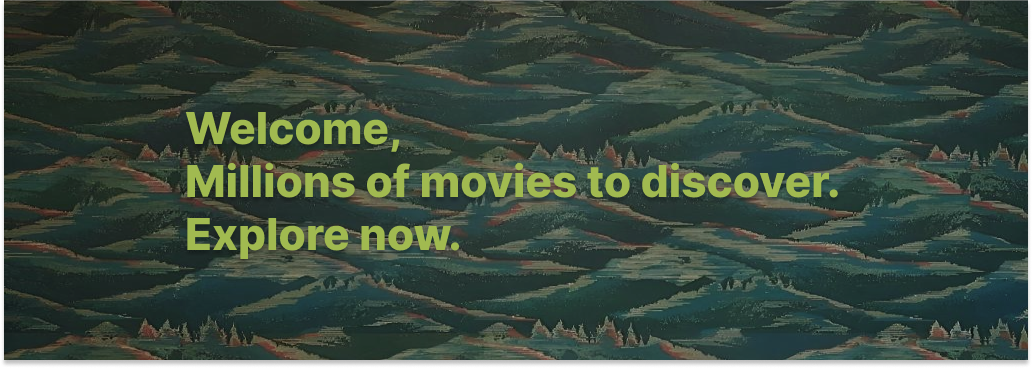
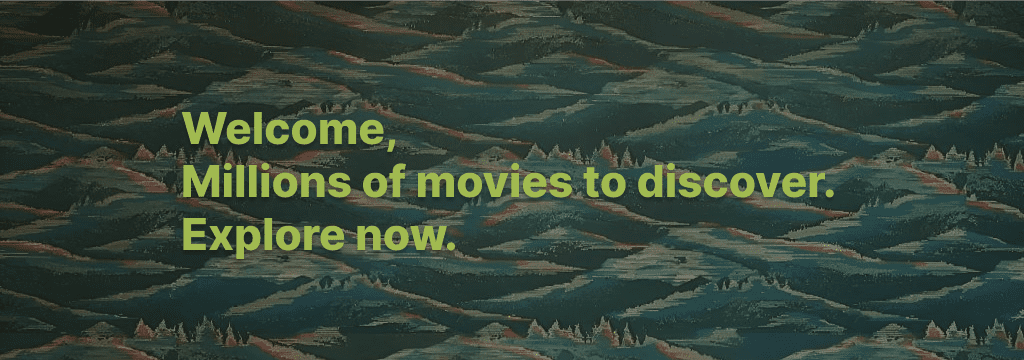
Feat: Add Skeleton UI in the carousel

diff --git a/src/pages/SearchPage.tsx b/src/pages/SearchPage.tsx
@@ -9,13 +9,14 @@ import MovieItemStyle from '../components/style/MovieItemStyle'
 import ResultCountStyle from '../components/style/ResultCountStyle'
 import { ITotalResults } from '../types/hooksTypes'
 import Pagination from '../components/layout/Pagination'
+import Loading from '../components/common/Loading'
 
 const SearchPage = () => {
   const [params] = useSearchParams()
   const navigate = useNavigate()
+  const [isLoading, setIsLoading] = useState(false)
   const [movieList, setMovieList] = useState<IMovieInfo[]>([])
   const [page, setPage] = useState<number>(1)
-
   const [totalResults, setTotalResults] = useState<ITotalResults>({
     totalCount: 0,
     totalPages: 0
@@ -23,13 +24,19 @@ const SearchPage = () => {
 
   useEffect(() => {
     const getData = async () => {
-      const res = await getSearchingMovieList(params.get('q') as string, page)
-      console.log(res)
-      setMovieList(res.results)
-      setTotalResults({
-        totalCount: res.total_results,
-        totalPages: res.total_pages
-      })
+      try {
+        setIsLoading(true)
+        const res = await getSearchingMovieList(params.get('q') as string, page)
+        setMovieList(res.results)
+        setTotalResults({
+          totalCount: res.total_results,
+          totalPages: res.total_pages
+        })
+      } catch (err) {
+        console.log(err)
+      } finally {
+        setIsLoading(false)
+      }
     }
     getData()
   }, [params, page])
@@ -37,17 +44,21 @@ const SearchPage = () => {
   return (
     <SearchPageContainer>
       <ResultCountStyle>
-        검색결과 {totalResults.totalCount}건 ({totalResults.totalPages}페이지)
+        검색결과 {isLoading ? '?' : totalResults.totalCount}건 ({isLoading ? '?' : totalResults.totalPages}페이지)
       </ResultCountStyle>
-      <MovieListStyle>
-        {!movieList.length && <NoResult>일치하는 검색 결과가 없습니다.</NoResult>}
-        {movieList?.map((movie) => (
-          <MovieItemStyle key={movie.id}>
-            <MovieItem movieInfo={movie} onClick={() => navigate(`/detail/${movie.id}`, { state: movie.id })} />
-          </MovieItemStyle>
-        ))}
-        <Pagination totalPages={totalResults.totalPages} page={page} setPage={setPage} />
-      </MovieListStyle>
+      {isLoading ? (
+        <Loading />
+      ) : (
+        <MovieListStyle>
+          {!movieList.length && <NoResult>일치하는 검색 결과가 없습니다.</NoResult>}
+          {movieList?.map((movie) => (
+            <MovieItemStyle key={movie.id}>
+              <MovieItem movieInfo={movie} onClick={() => navigate(`/detail/${movie.id}`, { state: movie.id })} />
+            </MovieItemStyle>
+          ))}
+          <Pagination totalPages={totalResults.totalPages} page={page} setPage={setPage} />
+        </MovieListStyle>
+      )}
     </SearchPageContainer>
   )
 }

diff --git a/src/components/layout/Pagination.tsx b/src/components/layout/Pagination.tsx
@@ -39,23 +39,23 @@ const Pagination = ({ totalPages, page, setPage }: IPagination) => {
 
   return (
     <PaginationContainer>
-      <button onClick={() => setPage(1)} disabled={page === 1}>
+      <button onClick={() => setPage(1)} disabled={page === 1} aria-label="첫 페이지로">
         <DoubleLeftIcon />
       </button>
-      <button onClick={() => setPage(page - 1)} disabled={page === 1}>
+      <button onClick={() => setPage(page - 1)} disabled={page === 1} aria-label="이전 페이지로">
         <LeftIcon />
       </button>
       <PageButtonContainer role="navigation" aria-label="pagination">
         {currentPageArray?.map((i) => (
-          <PageButton key={i + 1} onClick={() => setPage(i + 1)} aria-current={page === i + 1 ? 'page' : undefined}>
-            {i + 1}
-          </PageButton>
+          <li key={i + 1} onClick={() => setPage(i + 1)}>
+            <PageButton aria-current={page === i + 1 ? 'page' : undefined}>{i + 1}</PageButton>
+          </li>
         ))}
       </PageButtonContainer>
-      <button onClick={() => setPage(page + 1)} disabled={page === totalPages}>
+      <button onClick={() => setPage(page + 1)} disabled={page === totalPages} aria-label="다음 페이지로">
         <RightIcon />
       </button>
-      <button onClick={() => setPage(totalPages)} disabled={page === totalPages}>
+      <button onClick={() => setPage(totalPages)} disabled={page === totalPages} aria-label="마지막 페이지로">
         <DoubleRightIcon />
       </button>
     </PaginationContainer>
@@ -87,7 +87,7 @@ const PaginationContainer = styled.div`
     }
   }
 `
-const PageButtonContainer = styled.div`
+const PageButtonContainer = styled.ul`
   position: relative;
   display: flex;
   gap: 20px;

diff --git a/src/components/carousel/RecommendList.tsx b/src/components/carousel/RecommendList.tsx
@@ -1,4 +1,3 @@
-import React from 'react'
 import styled from 'styled-components'
 import Slider from 'react-slick'
 import 'slick-carousel/slick/slick.css'
@@ -7,28 +6,35 @@ import MovieItem from '../common/MovieItem'
 import { carouselSettings } from './CarouselSettings'
 import { useNavigate } from 'react-router-dom'
 import { IMovieInfo } from '../../types/types'
+import SkeletonCarousel from './SkeletonCarousel'
 // const MovieItem = React.lazy(() => import('./MovieItem'))
 
 interface IRecommendList {
   title: string
   movieList: IMovieInfo[]
+  isLoading: boolean
 }
 
-const RecommendList = ({ title, movieList }: IRecommendList) => {
+const RecommendList = ({ title, movieList, isLoading }: IRecommendList) => {
   const navigate = useNavigate()
+
   return (
     <RecommendSection>
       <div className="list-slider">
         <h3>{title}</h3>
-        <Slider {...carouselSettings}>
-          {movieList.map((movie, index) => (
-            <MovieItem
-              movieInfo={movie}
-              onClick={() => navigate(`/detail/${movie.id}`, { state: movie.id })}
-              key={movie.id}
-            />
-          ))}
-        </Slider>
+        {isLoading ? (
+          <SkeletonCarousel />
+        ) : (
+          <Slider {...carouselSettings}>
+            {movieList.map((movie, index) => (
+              <MovieItem
+                movieInfo={movie}
+                onClick={() => navigate(`/detail/${movie.id}`, { state: movie.id })}
+                key={movie.id}
+              />
+            ))}
+          </Slider>
+        )}
       </div>
     </RecommendSection>
   )

diff --git a/src/pages/MainPage.tsx b/src/pages/MainPage.tsx
@@ -13,6 +13,7 @@ const MainPage = () => {
   const [topRatedMovies, setTopRatedMovies] = useState(RECOMMEND_LIST_DEFAULT)
   const [sfMovies, setSfMovies] = useState(RECOMMEND_LIST_DEFAULT)
   const { cachedRecommendMovie, setCachedRecommendMovie } = useRecommendMovieStore()
+  const [isLoading, setIsLoading] = useState(false)
 
   const movieRecommendList = [
     { title: recommendListTitle.trending, movieList: trendingMovies },
@@ -41,9 +42,13 @@ const MainPage = () => {
         setCachedRecommendMovie(title, requestRes)
       }
     }
+    setIsLoading(true)
     getRecommendLists(recommendListTitle.trending, getTrendingMovieList, setTrendingMovies)
     getRecommendLists(recommendListTitle.topRated, getTopRatedMovieList, setTopRatedMovies)
     getRecommendLists(recommendListTitle.sf, getGenresMovieList, setSfMovies, SF_GENRE_ID)
+    setTimeout(() => {
+      setIsLoading(false)
+    }, 2000)
     //eslint-disable-next-line
   }, [])
 
@@ -53,7 +58,7 @@ const MainPage = () => {
         <img src="/banner.webp" alt="banner" />
       </div>
       {movieRecommendList.map((list, index) => (
-        <RecommendList title={list.title} movieList={list.movieList} key={index} />
+        <RecommendList title={list.title} movieList={list.movieList} isLoading={isLoading} key={index} />
       ))}
     </MainContainer>
   )
@@ -69,6 +74,7 @@ const MainContainer = styled.main`
     width: 100%;
     img {
       width: 100%;
+      aspect-ratio: 1/0.352;
       object-fit: cover;
     }
   }

diff --git a/src/api/movieRequest.ts b/src/api/movieRequest.ts
@@ -10,6 +10,9 @@ export const getTrendingMovieList = async () => {
     .then((res) => {
       return res.data.results
     })
+    .catch((err: object) => {
+      return alert(err)
+    })
 }
 
 export const getTopRatedMovieList = async () => {
@@ -32,6 +35,9 @@ export const getSearchingMovieList = async (query: string, page = 1) => {
     })
     .then((res) => {
       return res.data
+    })
+    .catch((err: object) => {
+      return alert(err)
     })
 }
 export const getMovieDetail = async (movieId: string) => {
@@ -78,14 +84,19 @@ export const getGenresMovieList = async (with_genres: number) => {
     .then((res) => {
       return res.data.results
     })
+    .catch((err: object) => {
+      return alert(err)
+    })
 }
 export const getMyWatchList = async (account_id: string, page = 1) => {
-  // accountID 스토리지 저장
   return await axiosInstance
     .get(`account/${account_id}/watchlist/movies`, {
       params: { ...defaultOption, page }
     })
     .then((res) => {
       return res.data
+    })
+    .catch((err: object) => {
+      return alert(err)
     })
 }

diff --git a/src/pages/DetailPage.tsx b/src/pages/DetailPage.tsx
@@ -120,14 +120,14 @@ const DetailPage = () => {
           </DetailSection>
           {similarMovies.length ? (
             <RelatedSection>
-              <RecommendList title={`<${movieDetails.title}> 비슷한 영화`} movieList={similarMovies} />
+              {/* <RecommendList title={`<${movieDetails.title}> 비슷한 영화`} movieList={similarMovies} /> */}
             </RelatedSection>
           ) : (
             <RelatedSection>
-              <RecommendList
+              {/* <RecommendList
                 title={recommendListTitle.trending}
                 movieList={cachedRecommendMovie[recommendListTitle.trending]}
-              />
+              /> */}
             </RelatedSection>
           )}
         </>

diff --git a/src/components/common/SkeletonPoster.tsx b/src/components/common/SkeletonPoster.tsx
@@ -1,0 +1,37 @@
+import React from 'react'
+import styled from 'styled-components'
+
+const SkeletonPoster = () => {
+  return (
+    <SkeletonContainer>
+      <img src="/skeleton_image.webp" alt="로딩중" />
+    </SkeletonContainer>
+  )
+}
+
+const SkeletonContainer = styled.div`
+  position: relative;
+  width: 100%;
+  height: 100%;
+  aspect-ratio: 1/1.3;
+
+  img {
+    position: relative;
+    width: 90%;
+    height: 100%;
+    object-fit: cover;
+    margin: auto;
+    animation: fadeout 2s;
+
+    @keyframes fadeout {
+      from {
+        opacity: 1;
+      }
+      to {
+        opacity: 0;
+      }
+    }
+  }
+`
+
+export default SkeletonPoster

diff --git a/src/pages/MyPage.tsx b/src/pages/MyPage.tsx
@@ -76,9 +76,9 @@ const MyPage = () => {
           <p>좋아하는 영화, 보고싶은 영화를 관심 등록 해 보세요!</p>
           <p>취향에 맞는 영화를 추천받을 수 있어요.</p>
         </NoResults>
-        {movieRecommendList.map((list, index) => (
+        {/* {movieRecommendList.map((list, index) => (
           <RecommendList title={list.title} movieList={list.movieList} key={index} />
-        ))}
+        ))} */}
       </MyPageContainer>
     )
   else

diff --git a/src/components/carousel/SkeletonCarousel.tsx b/src/components/carousel/SkeletonCarousel.tsx
@@ -1,0 +1,17 @@
+import Slider from 'react-slick'
+import { carouselSettings } from './CarouselSettings'
+import SkeletonPoster from '../common/SkeletonPoster'
+
+const SkeletonCarousel = () => {
+  return (
+    <Slider {...carouselSettings}>
+      <SkeletonPoster />
+      <SkeletonPoster />
+      <SkeletonPoster />
+      <SkeletonPoster />
+      <SkeletonPoster />
+    </Slider>
+  )
+}
+
+export default SkeletonCarousel

diff --git a/src/components/common/MovieItem.tsx b/src/components/common/MovieItem.tsx
@@ -61,6 +61,17 @@ const ItemContainer = styled.div`
     height: 100%;
     object-fit: cover;
     margin: auto;
+
+    animation: fadein 1s;
+
+    @keyframes fadein {
+      from {
+        opacity: 0;
+      }
+      to {
+        opacity: 1;
+      }
+    }
   }
 
   transition: transform 0.5s;
